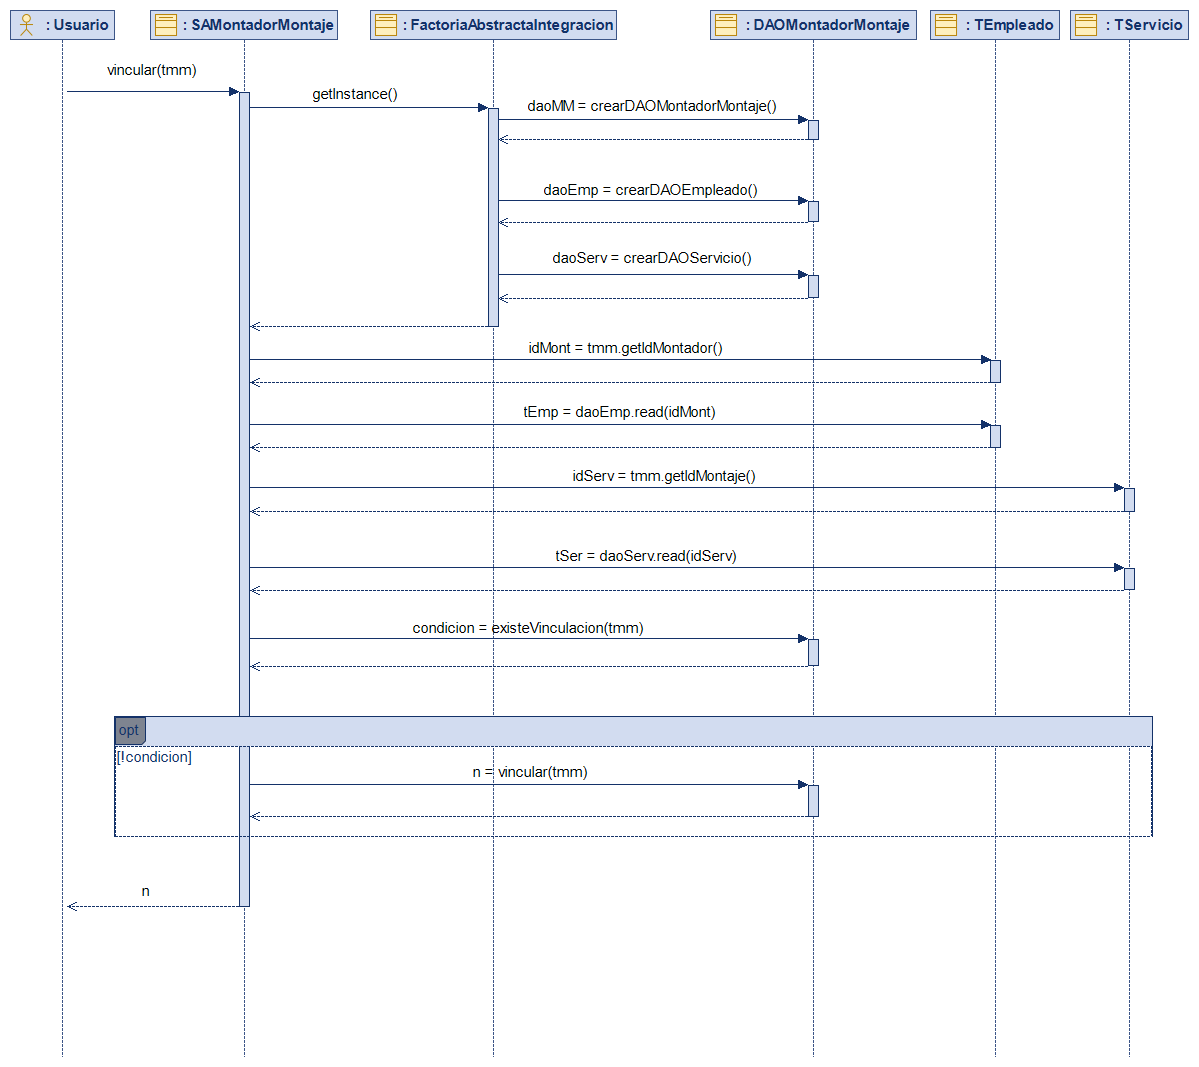
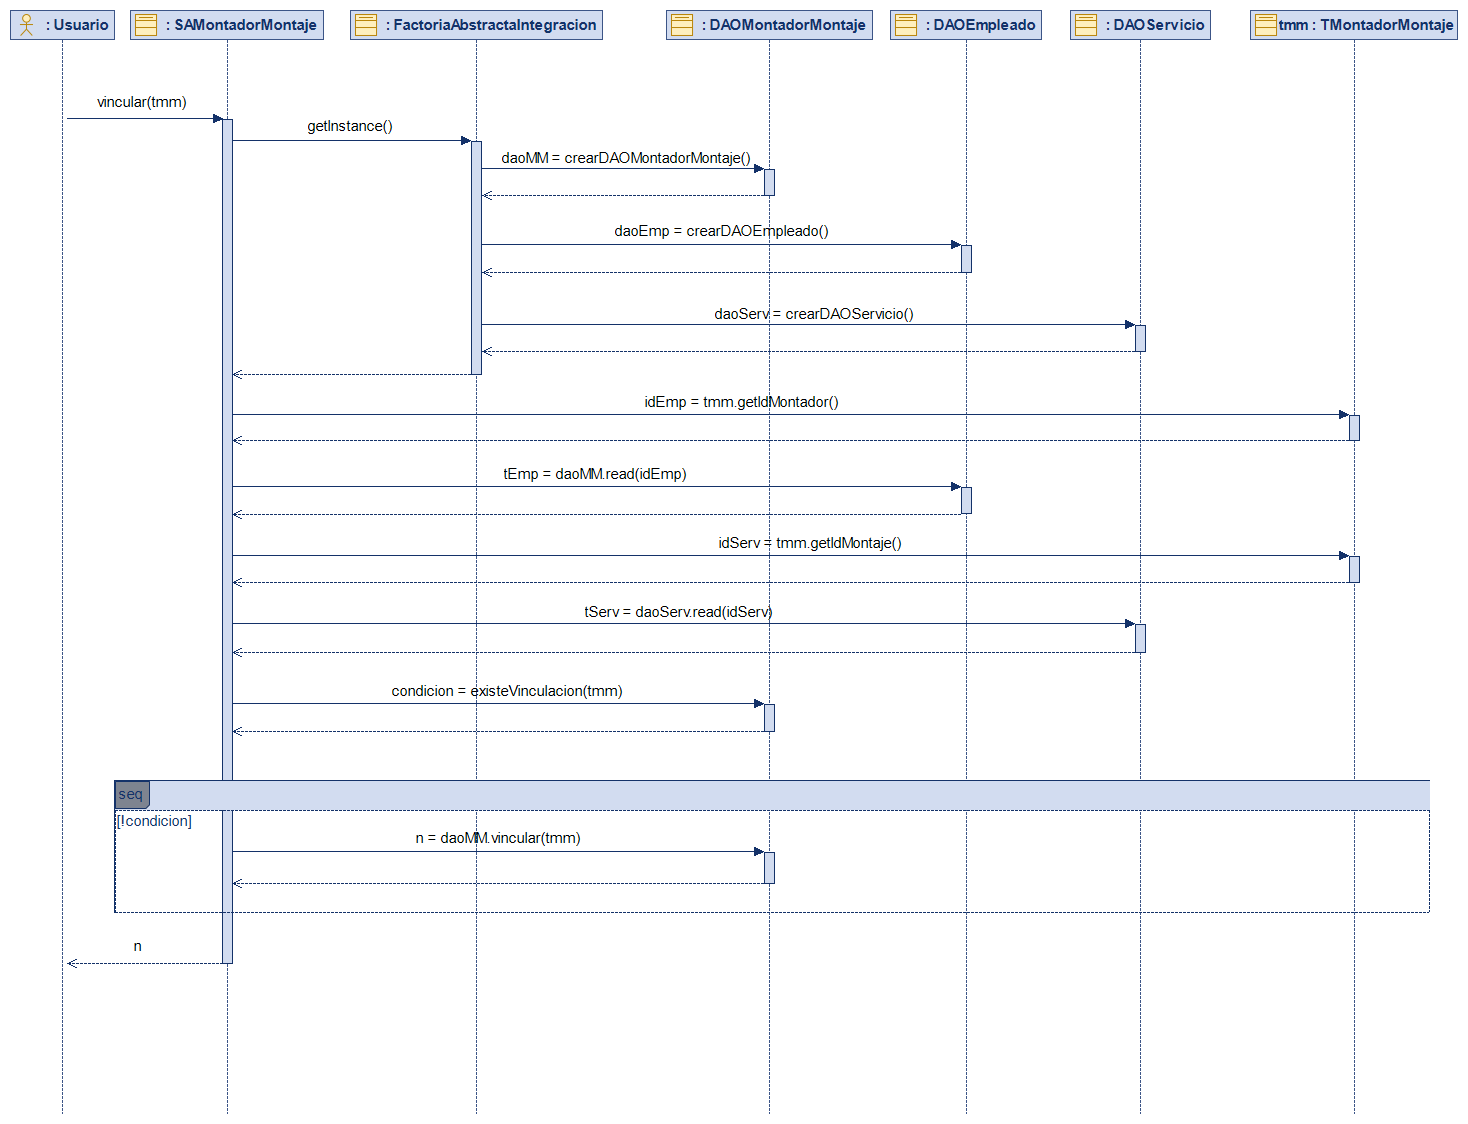
Secuencia

diff --git a/NIKEA_Eclipse_IS2/src/integracion/factura/DAOFactura.java b/NIKEA_Eclipse_IS2/src/integracion/factura/DAOFactura.java
@@ -13,8 +13,6 @@ public interface DAOFactura {
 
 	public boolean update(TFactura factura);// Actualiza los datos de una factura existente
 
-	public void delete(int id);
-
 	public List<TFactura> readByClient(int idCliente); //Buscar facturas de un cliente concreto
 
 	public List<TFactura> readByDateRange(String fechaInicio, String fechaFin); //Buscar facturas entre dos fechas

diff --git a/NIKEA_Eclipse_IS2/src/integracion/factura/DAOFacturaImp.java b/NIKEA_Eclipse_IS2/src/integracion/factura/DAOFacturaImp.java
@@ -114,16 +114,6 @@ public class DAOFacturaImp implements DAOFactura {
 	}
 
 	@Override
-	public void delete(int id) {
-		List<TFactura> lista = readAll();
-
-		lista.removeIf(f -> f.getId() == id);
-
-		guardarEnArchivo(lista);
-
-	}
-
-	@Override
 	public List<TFactura> readByClient(int idCliente) {
 		List<TFactura> res = new ArrayList<>();
 
